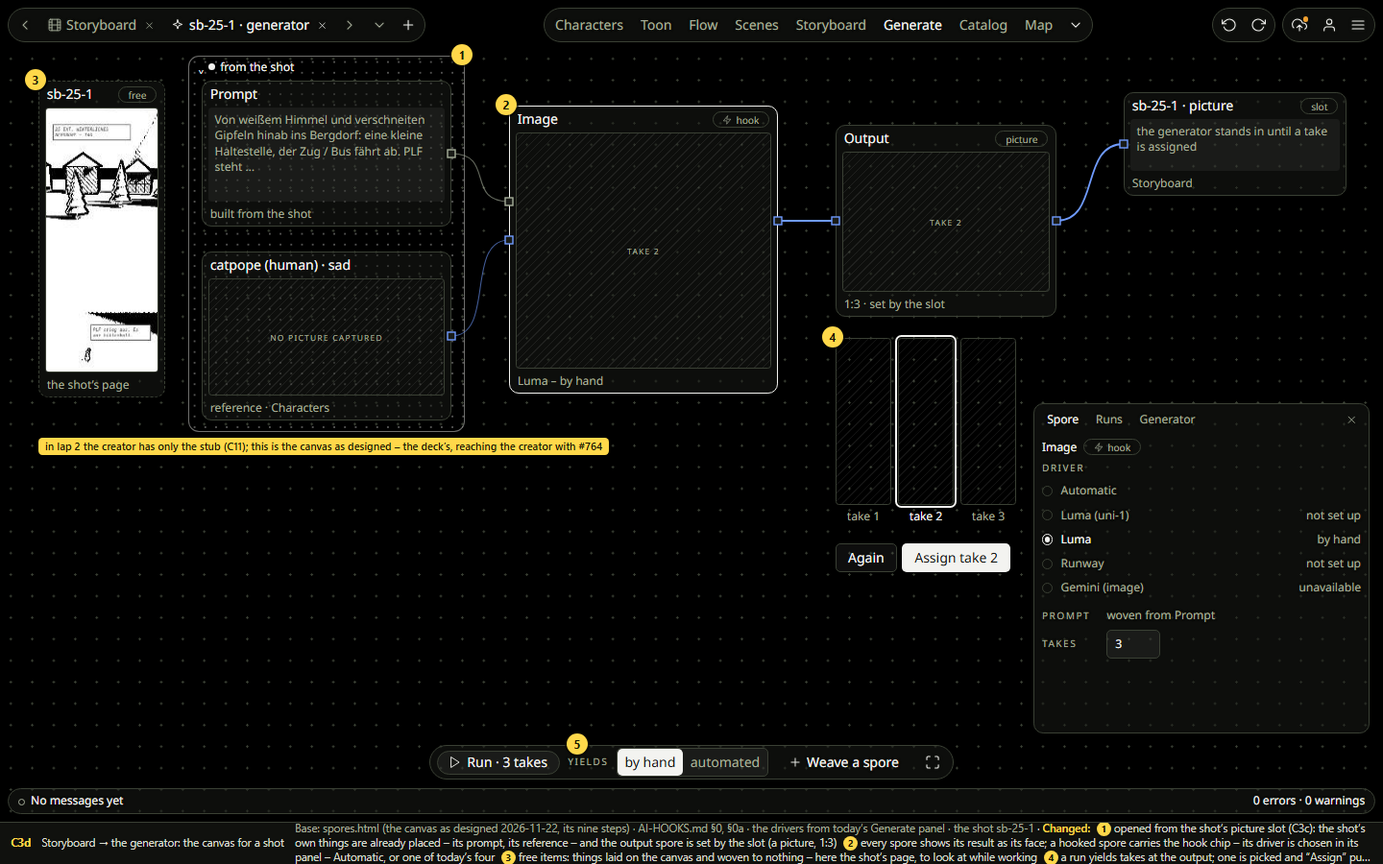
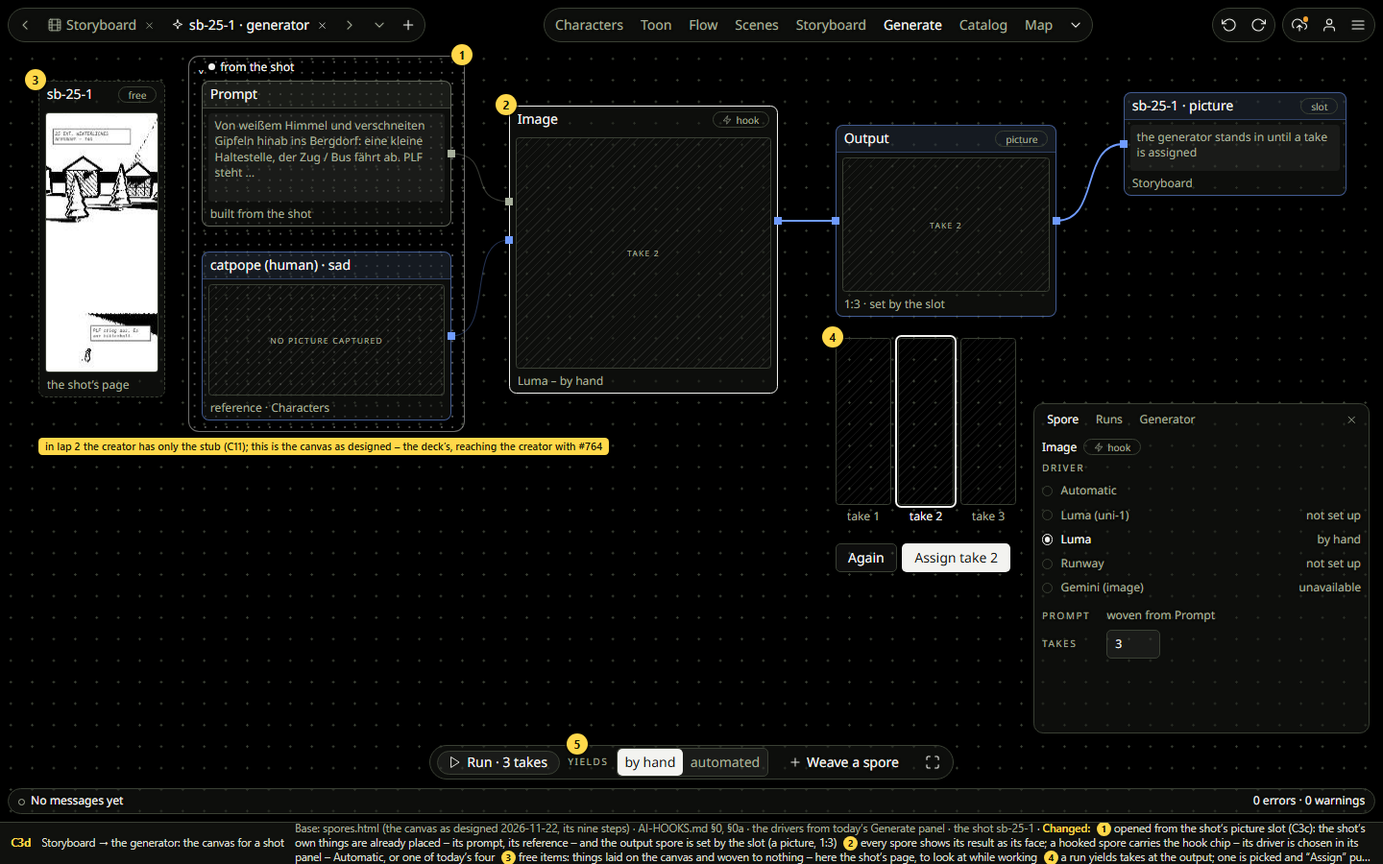
Lap 2 kit: the spore rows corrected after the deck's check against the node view (outline in the signal's colour, solid pins, the cable's states, the ground as the deck draws it). Refs #626

diff --git a/agents/research/redesign/lap2/kit-d.html b/agents/research/redesign/lap2/kit-d.html
@@ -136,6 +136,19 @@ section.part{padding:1.3rem 0 1.5rem;border-top:1px solid var(--tool-line)}
 .ksg .gh i{width:.5rem;height:.5rem;border-radius:50%;background:currentColor}
 .ksg.h{border-color:var(--gc,var(--tool-text))}
 .ksg.fold{height:1.5rem;background-image:none}
+/* corrected after the deck's check (2026-11-24): a spore's outline is the colour of the signal it gives (55 %; a far one 35 %), its head is tinted 9 % toward it over a hairline; pins are solid; the plain canvas has no dots */
+.ks{border-color:color-mix(in srgb,var(--sc,var(--tool-muted)) 55%,transparent);border-radius:.54rem}
+.ks .t{height:2rem;background:color-mix(in srgb,var(--sc,var(--tool-muted)) 9%,transparent);border-bottom:1px solid color-mix(in srgb,var(--sc,var(--tool-muted)) 30%,transparent)}
+.ks .t .kw{margin-left:auto;color:var(--tool-muted);font-size:.6rem;letter-spacing:.12em;text-transform:uppercase}
+.ks.h{border-color:var(--sc,var(--tool-muted))}
+.ks.on{border-color:var(--d-on);background:var(--tool-selected)}
+.ks.fl{box-shadow:0 0 0 3px color-mix(in srgb,var(--sc,var(--tool-muted)) 45%,transparent)}
+.ks.far{border-color:color-mix(in srgb,var(--sc,var(--tool-muted)) 35%,transparent)}
+.ks.free{border-style:dashed;border-color:var(--tool-line);background:none} .ks.free .t{background:none;border-bottom:0}
+.ks .pn{display:flex;align-items:center;gap:.3rem;height:1.25rem;padding:0 .5rem 0 0;margin-left:-.5rem;color:var(--tool-muted);font-size:.68rem}
+.ks .pn.o{flex-direction:row-reverse;padding:0 0 0 .5rem;margin:0 -.5rem 0 0}
+.ks.pins{overflow:visible}
+.ks-ground.plain{background-image:none}
 .ks-dots{display:block;width:100%;height:3.2rem;border-radius:.4rem;background-image:radial-gradient(circle,var(--tool-line) 1px,transparent 1.2px);background-size:1rem 1rem}
 .ks{display:inline-flex;flex-direction:column;width:100%;max-width:9rem;border:var(--editor-edge) solid var(--tool-line);border-radius:.45rem;background:var(--tool-control);font-size:.78rem;text-shadow:none;overflow:hidden}
 .ks .t{display:flex;align-items:center;gap:.3rem;height:1.55rem;padding:0 .5rem;white-space:nowrap}
@@ -288,7 +301,7 @@ html:is([data-p15="b"],[data-p15="c"]) .fld.err::after{content:'✕';margin-left
 :root,[data-theme]{--cb-ok:#56B4E9;--cb-warn:#F0E442;--cb-err:#D55E00}
 [data-theme="day"]{--cb-ok:#0072B2;--cb-warn:#B07800;--cb-err:#8F3300}
 /* what keeps its colour (RULES H11, 2026-11-24): signals – the deck's table, deck/kit/src/base/signal.rs – and outlet types – started in the #703 draft's lanes (research/scenes/scenes-drafts.html), to tune */
-:root{--sig-event:#f3f3f0;--sig-control:#46d36a;--sig-clock:#e5484d;--sig-audio:#19b8d8;--sig-picture:#6f9bff;--sig-address:#b46bff;--sig-vote:#ffb020;--sig-scene:#ff6b8a;--sig-far:#a7af9b;
+:root{--sig-asset:var(--tool-muted);--sig-event:#f3f3f0;--sig-control:#46d36a;--sig-clock:#e5484d;--sig-audio:#19b8d8;--sig-picture:#6f9bff;--sig-address:#b46bff;--sig-vote:#ffb020;--sig-scene:#ff6b8a;--sig-far:#a7af9b;
   --out-page:#7cc4ff;--out-stage:#ffb86b;--out-target:#b99cff;--out-light:#f2df6f}
 [data-theme="day"]{--sig-event:#22271e;--sig-control:#2f9e4a;--sig-clock:#c23238;--sig-audio:#0089a8;--sig-picture:#3a63c9;--sig-address:#8a4fd0;--sig-vote:#b07800;--sig-scene:#c8385a;--sig-far:#6b7461;
   --out-page:#2a7fc0;--out-stage:#c46a12;--out-target:#7448d6;--out-light:#a88a00}
@@ -603,18 +616,20 @@ const ibtn = (cls, n = 'eye') => `<span class="kib ${cls}">${ic(n)}</span>`;
 const ingroup = cls => `<span class="kp"><span class="kib">${ic('pointer')}</span><span class="kib ${cls}">${ic('undo')}</span><span class="kib">${ic('redo')}</span></span>`;
 const btn = (v, cls, w) => `<span class="kb ${v} ${cls}">${w}</span>`;
 const kgroup = (cls, col) => `<span class="ksg ${cls}" ${col ? `style="--gc:${col}"` : ''}><span class="gh">${cls === 'fold' ? '›' : '⌄'}<i></i>from the shot</span></span>`;
-const ksp = (cls, o = {}) => `<span class="ks ${cls}"><span class="t">${o.t || 'image'}${o.hook ? `<span class="kc">${ic('zap')}hook</span>` : ''}${o.mark ? `<span class="m ${o.mark}">${o.mark === 'done' ? '✓' : o.mark === 'fail' ? '✕' : ''}</span>` : ''}</span>${o.face ? `<span class="fc">${o.face}</span>` : ''}<span class="s">${o.s || 'Luma – by hand'}</span></span>`;
-/* a plug – a port's pin: its shape and colour are its signal's (deck-kit base/signal.rs); st: open · hover · wired · off · may (a cable in the hand may go in) */
-const kpin = (k, st) => { const c = `var(--sig-${k})`, fill = st === 'wired' ? c : 'var(--tool-popover)', sw = st === 'hover' || st === 'may' ? 2 : 1.3;
-  const sh = k === 'event' ? `<path d="M4.5 3.5L13 8L4.5 12.5Z" fill="${fill}" stroke="${c}" stroke-width="${sw}" stroke-linejoin="round"/>` : k === 'control' ? `<circle cx="8" cy="8" r="3.4" fill="${fill}" stroke="${c}" stroke-width="${sw}"/>` : k === 'picture' ? `<rect x="4" y="4" width="8" height="8" fill="${fill}" stroke="${c}" stroke-width="${sw}"/>` : k === 'address' ? `<path d="M8 2.6L13.4 8L8 13.4L2.6 8Z" fill="${fill}" stroke="${c}" stroke-width="${sw}"/>` : `<circle cx="8" cy="8" r="4.3" fill="var(--tool-popover)" stroke="${c}" stroke-width="${sw + .2}"/>`;
+/* a plug – a port's pin: its shape and colour are its signal's, always solid (deck-kit base/signal.rs, show/node_card.rs); st: wired · hover · off · may (a cable in the hand may go in) */
+const kpin = (k, st) => { const c = `var(--sig-${k})`, fill = c, sw = st === 'hover' || st === 'may' ? 2 : 1.3;
+  const sh = k === 'event' ? `<path d="M4.5 3.5L13 8L4.5 12.5Z" fill="${fill}" stroke="${c}" stroke-width="${sw}" stroke-linejoin="round"/>` : k === 'control' ? `<circle cx="8" cy="8" r="3.4" fill="${fill}" stroke="${c}" stroke-width="${sw}"/>` : k === 'picture' || k === 'asset' ? `<rect x="4" y="4" width="8" height="8" fill="${fill}" stroke="${c}" stroke-width="${sw}"/>` : k === 'address' ? `<path d="M8 2.6L13.4 8L8 13.4L2.6 8Z" fill="${fill}" stroke="${c}" stroke-width="${sw}"/>` : `<circle cx="8" cy="8" r="4.3" fill="var(--tool-popover)" stroke="${c}" stroke-width="${sw + .2}"/>`;
   return `<svg viewBox="0 0 16 16" style="width:1rem;height:1rem;flex:none;opacity:${st === 'off' ? .4 : 1}"><title>${k}</title>${st === 'may' ? `<circle cx="8" cy="8" r="7.3" fill="none" stroke="${c}" stroke-width="1" opacity=".5"/>` : ''}${sh}</svg>`; };
 const kpins = (st) => `<span style="display:inline-flex;gap:.3rem">${['event', 'control', 'picture', 'address', 'far'].map(k => kpin(k, st)).join('')}</span>`;
 /* a pore – for organic matter, a whole being (owner 2026-11-22); its shape is a proposal: a round opening, wider than a plug */
 const kpore = (wired) => `<svg viewBox="0 0 22 22" style="width:1.4rem;height:1.4rem"><circle cx="11" cy="11" r="8.5" fill="none" stroke="var(--tool-text)" stroke-width="1.2" opacity=".55"/><circle cx="11" cy="11" r="5" fill="${wired ? 'var(--tool-text)' : 'var(--tool-popover)'}" stroke="var(--tool-text)" stroke-width="1.3"/></svg>`;
 /* a cable – hangs under its ends, deeper the farther apart (deck-kit base/wire.rs); st: rest · hover · lit (beads run) · hand (in the hand, dashed) · no (refused) */
-const kcab = (st) => { const c = st === 'no' ? 'var(--d-error)' : 'var(--sig-picture)', d = st === 'hand' ? 'M8 7 C 30 24, 70 26, 92 18' : 'M8 7 C 34 25, 86 25, 112 7';
-  return `<svg viewBox="0 0 120 30" style="width:7.5rem;height:1.9rem"><path d="${d}" fill="none" stroke="${c}" stroke-width="${st === 'rest' ? 1.1 : 1.9}" opacity="${st === 'rest' ? .6 : 1}" ${st === 'hand' || st === 'no' ? 'stroke-dasharray="4 3"' : ''}/>${st === 'lit' ? [[30, 17.5], [60, 20.5], [90, 17.5]].map(([x, y]) => `<circle cx="${x}" cy="${y}" r="1.7" fill="${c}"/>`).join('') : ''}
-    <rect x="4" y="3" width="8" height="8" fill="${st === 'rest' ? 'var(--tool-popover)' : c}" stroke="${c}" stroke-width="1.4"/>${st === 'hand' || st === 'no' ? `<path d="M92 13l8 9-4 .4 2 4-2 1-2-4-3 2.6z" fill="var(--tool-text)"/>` : `<rect x="108" y="3" width="8" height="8" fill="${st === 'rest' ? 'var(--tool-popover)' : c}" stroke="${c}" stroke-width="1.4"/>`}</svg>`; };
+/* a spore's card as the deck draws it (show/node_card.rs): o.sig = the signal it gives; o.form: 'pins' (its pins on the edge with their names), 'head' (collapsed) */
+const ksp = (cls, o = {}) => { const sig = o.sig === undefined ? 'picture' : o.sig;
+  return `<span class="ks ${cls} ${o.form === 'pins' ? 'pins' : ''}" ${sig ? `style="--sc:var(--sig-${sig})"` : ''}><span class="t">${o.t || 'image'}${o.hook ? `<span class="kc">${ic('zap')}hook</span>` : ''}${o.kind ? `<span class="kw">${o.kind}</span>` : ''}${o.mark ? `<span class="m ${o.mark}">${o.mark === 'done' ? '✓' : o.mark === 'fail' ? '✕' : ''}</span>` : ''}</span>${o.form === 'head' ? '' : `${o.face ? `<span class="fc">${o.face}</span>` : ''}${o.form === 'pins' ? `<span class="pn">${kpin('asset', 'wired')}prompt</span><span class="pn o">${kpin('picture', 'wired')}picture</span>` : `<span class="s">${o.s || 'Luma – by hand'}</span>`}`}</span>`; };
+const kcab = (st) => { const c = st === 'no' ? 'var(--d-error)' : 'var(--sig-picture)', d = st === 'hand' || st === 'no' ? 'M8 7 C 30 24, 70 26, 92 18' : 'M8 7 C 34 25, 86 25, 112 7', quiet = st === 'rest';
+  return `<svg viewBox="0 0 120 30" style="width:7.5rem;height:1.9rem">${st === 'hover' ? `<path d="${d}" fill="none" stroke="${c}" stroke-width="7" opacity=".18" stroke-linecap="round"/>` : ''}<path d="${d}" fill="none" stroke="${c}" stroke-width="${quiet ? 1.1 : 1.8}" opacity="${quiet ? .32 : 1}" ${st === 'hand' || st === 'no' ? 'stroke-dasharray="4 3"' : ''}/>${st === 'lit' ? [[30, 17.5], [60, 20.5], [90, 17.5]].map(([x, y]) => `<circle cx="${x}" cy="${y}" r="1.8" fill="${c}"/>`).join('') : ''}${st === 'pulse' ? `<circle cx="60" cy="20.5" r="5.5" fill="${c}" opacity=".25"/><circle cx="60" cy="20.5" r="2.4" fill="${c}"/>` : ''}
+    <rect x="4" y="3" width="8" height="8" fill="${c}"/>${st === 'hand' || st === 'no' ? `<path d="M92 13l8 9-4 .4 2 4-2 1-2-4-3 2.6z" fill="var(--tool-text)"/>` : `<rect x="108" y="3" width="8" height="8" fill="${c}"/>`}</svg>`; };
 const kcable = (lit) => `<svg viewBox="0 0 120 26" style="width:7.5rem;height:1.6rem"><path d="M8 19 C 48 19, 72 7, 112 7" fill="none" stroke="var(--sig-picture)" stroke-width="${lit ? 1.9 : 1.1}" opacity="${lit ? 1 : .6}"/><rect x="2" y="15" width="8" height="8" fill="var(--tool-popover)" stroke="var(--sig-picture)" stroke-width="1.4"/><rect x="110" y="3" width="8" height="8" fill="${lit ? 'var(--sig-picture)' : 'var(--tool-popover)'}" stroke="var(--sig-picture)" stroke-width="1.4"/></svg>`;
 const ktake = (cls) => `<span class="kst ${cls}"><i></i>take 2</span>`;
 const chip = (cls, w = 'Voice') => `<span class="kc ${cls}">${w}</span>`;
@@ -674,14 +689,15 @@ const rows = () => [
     `${stb('ok', 'Saved · giantpopstar')}${stb('warn', 'Fireface not found', '0 errors · <span class="c-warn">1 warning</span>')}${stb('err', 'Publish failed', '<span class="c-err">1 error</span> · <span class="c-warn">7 warnings</span>')}`]),
   comp('Signals', capt('keep their colour · H11'), [`<span style="display:flex;flex-wrap:wrap;width:44rem">${[['event','M2 1.5L11 6L2 10.5Z'],['control','dot'],['clock','dot'],['audio','M2 2h8v8H2Z'],['picture','M2 2h8v8H2Z'],['address','M6 1L11 6L6 11L1 6Z'],['vote','dot'],['scene','M2 2h8v8H2Z'],['far','ring']].map(([k, d]) => `<span class="cc"><svg viewBox="0 0 12 12">${d === 'dot' ? `<circle cx="6" cy="6" r="3.6" fill="var(--sig-${k})"/>` : d === 'ring' ? `<circle cx="6" cy="6" r="4" fill="none" stroke="var(--sig-${k})" stroke-width="1.6"/>` : `<path d="${d}" fill="var(--sig-${k})"/>`}</svg>${k}</span>`).join('')}</span>`, NA, NA, NA, NA, NA, capt('ports, pins and cables – the deck’s table; the shape tells the kind too')]),
   comp('Outlet types', capt('get colours · to tune'), [`<span style="display:flex;flex-wrap:wrap;width:44rem">${[['page', 'the reader’s page'], ['stage', 'a deck’s screen or speaker'], ['target', 'an XR scene'], ['light', 'a device: DMX …']].map(([k, w]) => `<span class="cc"><i style="background:var(--out-${k})"></i>${k}<span class="cap" style="margin-left:.2rem">${w}</span></span>`).join('')}</span>`, NA, NA, NA, NA, NA, capt('decided 2026-11-24; these four are the start from the #703 draft – the list and the values are open')]),
-  comp('Spores view', capt('its ground'), [`<span class="ks-ground"></span>`, `<span class="ks-ground rev"></span>`, NA, NA, NA, NA, capt('the stage with a dotted ground; under what the pointer is on, the dots come up in its colour and fade – no blur. Open: the deck shows dots only there and inside groups today; the drafts show them everywhere')]),
-  comp('Group', capt('a frame'), [kgroup(''), kgroup('h'), kgroup('', '#e6d24a'), NA, NA, kgroup('fold'), capt('round its spores, one step out: its dots and its edge in its colour (third: a colour of its own); its head – fold, swatch (the next colour), name, renamed in place; folded it is its head only')]),
-  comp('Spore', capt('a card'), [ksp(''), ksp('h'), ksp('on'), ksp('f'), ksp('x'), ksp('free', { t: 'sb-25-1', s: 'a free item' }), capt('rest · hover · selected · focus · off · a free item: dashed, woven to nothing')]),
-  comp('Spore · face', capt('its result'), [ksp('', { face: 'pending', hook: 1 }), NA, ksp('on', { face: 'take 2', hook: 1 }), NA, NA, NA, capt('a spore shows its result as its face; a hooked one carries the hook chip; its driver: Automatic or picked')]),
-  comp('Spore · run', capt('its marks'), [ksp('', { mark: 'wait' }), ksp('', { mark: 'run' }), ksp('', { mark: 'done' }), ksp('', { mark: 'fail' }), NA, NA, capt('waiting · running · done · failed – ok and error keep their hue')]),
-  comp('Plug', capt('a port’s pin'), [kpins('open'), kpins('hover'), kpins('wired'), NA, kpins('off'), kpins('may'), capt('its shape and colour are its signal’s: event · value · picture · address · far (all nine above). Open · hover · wired · off · while a cable is in the hand, the plugs it may go into light')]),
+  comp('Spores view', capt('its ground'), [`<span class="ks-ground plain"></span>`, `<span class="ks-ground plain rev"></span>`, NA, NA, NA, `<span class="ks-ground"></span>`, capt('today (deck): the plain stage; under what the pointer is on, a patch of dots comes up and follows it – no blur. Last cell: dots across the whole canvas, as the drafts have them – open which')]),
+  comp('Group', capt('a frame'), [kgroup(''), kgroup('h'), kgroup('', '#e6d24a'), NA, NA, kgroup('fold'), capt('round its spores, one step out: its dots (32 %) and its edge (45 %) in its colour, on a 1 rem grid (third: a colour of its own); its head – fold, swatch (the next colour), name, renamed in place; folded it is its head only')]),
+  comp('Spore', capt('a card'), [ksp(''), ksp('h'), ksp('on'), ksp('fl'), ksp('x'), ksp('free', { t: 'sb-25-1', s: 'a free item', sig: null }), capt('its outline is the colour of the signal it gives, its head tinted toward it. Rest · hover (new in the deck) · selected: the text colour (the deck’s cyan ring goes) · focus: a flash, a ring closing in · off · a free item')]),
+  comp('Spore · forms', capt('as the deck'), [ksp('', { form: 'pins', kind: 'hook' }), ksp('', { form: 'head' }), ksp('far', { s: 'from far' }), NA, NA, NA, capt('with its pins on the edge, their names beside them · collapsed to its head · from far: a fainter outline')]),
+  comp('Spore · face', capt('its result'), [ksp('', { face: 'pending', hook: 1 }), NA, ksp('on', { face: 'take 2', hook: 1 }), NA, NA, NA, capt('a spore shows its result as its face (the deck’s card has a preview picture today); a hooked one carries the hook chip; its driver: Automatic or picked')]),
+  comp('Spore · run', capt('its marks'), [ksp('', { mark: 'wait' }), ksp('', { mark: 'run' }), ksp('', { mark: 'done' }), ksp('', { mark: 'fail' }), NA, NA, capt('waiting · running · done · failed – new: the deck knows a cable’s activity today, not a spore’s run; comes with the generators')]),
+  comp('Plug', capt('a port’s pin'), [kpins('wired'), kpins('hover'), NA, NA, kpins('off'), kpins('may'), capt('always solid, in its signal’s shape and colour – wired or not looks the same (deck): event · value · picture · address · far (all nine above). Hover · off · while a cable is in the hand, the plugs it may go into light')]),
   comp('Pore', capt('organic matter'), [kpore(false), NA, kpore(true), NA, NA, NA, capt('where a whole being passes – combined, complex data; a picture or a file is data and goes through a plug (decided 2026-11-22). The shape is a proposal: a round opening, wider than a plug')]),
-  comp('Cable', capt('by signal'), [kcab('rest'), kcab('hover'), kcab('lit'), NA, kcab('no'), kcab('hand'), capt('hangs under its ends, deeper the farther apart; quiet at rest; a few slow beads run when its signal passes; in the hand it is dashed; refused, it says why at the pointer. A press on an outlet starts one; a wired inlet dragged lifts it')]),
+  comp('Cable', capt('by signal'), [kcab('rest'), kcab('hover'), kcab('lit'), kcab('pulse'), kcab('no'), kcab('hand'), capt('hangs under its ends; quiet at rest (faint, thin) · hover: a wide halo · lit as a stream of slow beads, or as one pulse with a halo · refused: it says why at the pointer · in the hand: dashed. An event’s cable is heavier; a cable can carry its value as a tag')]),
   comp('Take', capt('pick one'), [ktake(''), ktake('h'), ktake('on'), NA, NA, NA, capt('a run’s takes at the output; the picked one has the ring – “Assign” puts it into the slot')]),
   comp('Deck stage', capt('live · out · cables') + od(14), [STAGE14, NA, NA, NA, NA, NA, capt('not a UI state – proposal')]),
 ];

diff --git a/agents/research/redesign/lap2/draft-screens.js b/agents/research/redesign/lap2/draft-screens.js
@@ -316,12 +316,12 @@ add('C', 'C3c', 'Storyboard · 5 Generate: the shot’s asset slot', 'today’s 
 /* C3d – the generator's canvas for a shot, as designed on 2026-11-22 (research/redesign/spores.html, AI-HOOKS.md §0 and §0a): every spore shows its result as its face, free items lie on the canvas unwoven, a run yields takes at the output and one is picked for the slot. Drawn on the kit; the drivers are today's Generate panel's. No generated picture exists, so the takes are the "still pending" tile. */
 const gcPend = (label) => `<span style="position:absolute;inset:0;display:grid;place-items:center;background:repeating-linear-gradient(135deg,transparent 0 5px,color-mix(in srgb,var(--tool-text) 8%,transparent) 5px 6px)" title="no picture exists yet – still pending"><span class="label" style="font-size:.6rem">${label || ''}</span></span>`;
 /* a spore's card: its name, a chip, its face (the result), a line under it; lit = the one that is selected */
-const gcCard = (x, y, w, h, o) => `<div class="abs" style="left:${x}px;top:${y}px;width:${w}px;height:${h}px;border:1px ${o.free ? 'dashed' : 'solid'} var(--tool-${o.lit ? 'text' : 'line'});border-radius:var(--kit-radius-box);background:var(--tool-panel);display:flex;flex-direction:column;overflow:hidden" title="${o.title || ''}">
-    <div style="flex:none;display:flex;align-items:center;gap:.4rem;padding:.3rem .55rem;white-space:nowrap"><span style="overflow:hidden;text-overflow:ellipsis">${o.t}</span><span style="flex:1"></span>${o.chip ? `<span class="kc">${o.chip}</span>` : ''}</div>
+const gcCard = (x, y, w, h, o) => `<div class="abs" style="left:${x}px;top:${y}px;width:${w}px;height:${h}px;border:1px ${o.free ? 'dashed' : 'solid'} ${o.lit ? 'var(--tool-text)' : o.sig ? `color-mix(in srgb,var(--sig-${o.sig}) 55%,transparent)` : 'var(--tool-line)'};border-radius:.54rem;background:var(--tool-panel);display:flex;flex-direction:column;overflow:hidden" title="${o.title || ''}">
+    <div style="flex:none;display:flex;align-items:center;gap:.4rem;padding:.3rem .55rem;margin-bottom:.35rem;white-space:nowrap;${o.sig ? `background:color-mix(in srgb,var(--sig-${o.sig}) 9%,transparent);border-bottom:1px solid color-mix(in srgb,var(--sig-${o.sig}) 30%,transparent)` : ''}"><span style="overflow:hidden;text-overflow:ellipsis">${o.t}</span><span style="flex:1"></span>${o.chip ? `<span class="kc">${o.chip}</span>` : ''}</div>
     <div style="flex:1;position:relative;margin:0 .45rem;border-radius:.25rem;overflow:hidden;${o.text ? 'padding:.35rem .45rem;font-size:var(--editor-small);line-height:1.35;color:var(--tool-muted);background:var(--tool-control)' : 'border:1px solid var(--tool-line)'}">${o.face || ''}</div>
     <div class="cap" style="flex:none;padding:.3rem .55rem;white-space:nowrap;overflow:hidden;text-overflow:ellipsis">${o.s || '&nbsp;'}</div></div>`;
-const gcPort = (x, y, kind) => `<rect x="${x - 4}" y="${y - 4}" width="8" height="8" fill="var(--tool-popover)" stroke="var(--sig-${kind})" stroke-width="1.4"/>`;
-const gcWire = (x1, y1, x2, y2, kind, lit) => `<path d="M${x1} ${y1} C ${x1 + 46} ${y1}, ${x2 - 46} ${y2}, ${x2} ${y2}" fill="none" stroke="var(--sig-${kind})" stroke-width="${lit ? 1.8 : 1.1}" opacity="${lit ? 1 : .6}"/>`;
+const gcPort = (x, y, kind) => `<rect x="${x - 4}" y="${y - 4}" width="8" height="8" fill="var(--sig-${kind})"/>`;   /* a pin is solid in its signal's colour (deck) */
+const gcWire = (x1, y1, x2, y2, kind, lit) => `<path d="M${x1} ${y1} C ${x1 + 46} ${y1}, ${x2 - 46} ${y2}, ${x2} ${y2}" fill="none" stroke="var(--sig-${kind})" stroke-width="${lit ? 1.8 : 1.1}" opacity="${lit ? 1 : .32}"/>`;
 add('C', 'C3d', 'Storyboard → the generator: the canvas for a shot', 'spores.html (the canvas as designed 2026-11-22, its nine steps) · AI-HOOKS.md §0, §0a · the drivers from today’s Generate panel · the shot sb-25-1',
   ['opened from the shot’s picture slot (C3c): the shot’s own things are already placed – its prompt, its reference – and the output spore is set by the slot (a picture, 1:3)',
    'every spore shows its result as its face; a hooked spore carries the hook chip – its driver is chosen in its panel – Automatic, or one of today’s four',
@@ -336,11 +336,11 @@ add('C', 'C3d', 'Storyboard → the generator: the canvas for a shot', 'spores.h
     ${gcPort(470, 160, 'asset')}${gcPort(470, 350, 'picture')}${gcPort(530, 210, 'asset')}${gcPort(530, 250, 'picture')}${gcPort(810, 230, 'picture')}${gcPort(870, 230, 'picture')}${gcPort(1100, 230, 'picture')}${gcPort(1170, 150, 'picture')}</svg>
   <div class="abs" style="left:196px;top:58px;width:288px;height:392px;border:1px solid color-mix(in srgb,var(--tool-text) 45%,transparent);border-radius:.8rem;background-image:radial-gradient(circle,color-mix(in srgb,var(--tool-text) 34%,transparent) 1px,transparent 1.2px);background-size:.8rem .8rem" title="a group: round its spores, its dots and edge in its colour"><span style="position:absolute;left:.6rem;top:.2rem;display:flex;align-items:center;gap:.35rem;font-size:var(--editor-small)">⌄<span style="width:.5rem;height:.5rem;border-radius:50%;background:var(--tool-text)"></span>from the shot</span></div>
   ${gcCard(40, 84, 132, 330, { t: 'sb-25-1', chip: 'free', free: 1, face: capPic(`now/ws-storyboard-${WS_TH}.jpg`, 800, 476, 342, 100, 116, 256), s: 'the shot’s page', title: 'a free item: on the canvas, woven to nothing' })}
-  ${gcCard(210, 84, 260, 152, { t: 'Prompt', text: 1, face: 'Von weißem Himmel und verschneiten Gipfeln hinab ins Bergdorf: eine kleine Haltestelle, der Zug / Bus fährt ab. PLF steht …', s: 'built from the shot' })}
-  ${gcCard(210, 262, 260, 176, { t: 'catpope (human) · sad', face: gcPend('no picture captured'), s: 'reference · Characters' })}
+  ${gcCard(210, 84, 260, 152, { t: 'Prompt', sig: 'asset', text: 1, face: 'Von weißem Himmel und verschneiten Gipfeln hinab ins Bergdorf: eine kleine Haltestelle, der Zug / Bus fährt ab. PLF steht …', s: 'built from the shot' })}
+  ${gcCard(210, 262, 260, 176, { t: 'catpope (human) · sad', sig: 'picture', face: gcPend('no picture captured'), s: 'reference · Characters' })}
   ${gcCard(530, 110, 280, 300, { t: 'Image', chip: ic('zap') + 'hook', lit: 1, face: gcPend('take 2'), s: 'Luma – by hand', title: 'a hooked spore: an external tool makes the picture' })}
-  ${gcCard(870, 130, 230, 200, { t: 'Output', chip: 'picture', face: gcPend('take 2'), s: '1:3 · set by the slot' })}
-  ${gcCard(1170, 96, 232, 108, { t: 'sb-25-1 · picture', chip: 'slot', text: 1, face: 'the generator stands in until a take is assigned', s: 'Storyboard' })}
+  ${gcCard(870, 130, 230, 200, { t: 'Output', sig: 'picture', chip: 'picture', face: gcPend('take 2'), s: '1:3 · set by the slot' })}
+  ${gcCard(1170, 96, 232, 108, { t: 'sb-25-1 · picture', sig: 'picture', chip: 'slot', text: 1, face: 'the generator stands in until a take is assigned', s: 'Storyboard' })}
   <div class="abs" style="left:870px;top:352px;display:flex;gap:.5rem">${[1, 2, 3].map(n => `<span style="display:flex;flex-direction:column;gap:.25rem"><span style="position:relative;width:58px;height:174px;border-radius:.25rem;overflow:hidden;border:1px solid var(--tool-line);${n === 2 ? 'outline:2px solid var(--tool-text);outline-offset:1px' : ''}">${gcPend('')}</span><span class="cap" style="text-align:center;${n === 2 ? 'color:var(--tool-text)' : ''}">take ${n}</span></span>`).join('')}
 </div>
   <div class="abs" style="left:870px;top:566px;display:flex;gap:.4rem"><span class="kb plain">Again</span><span class="kb primary">Assign take 2</span></div>

diff --git a/agents/research/redesign/lap2/NOTES.md b/agents/research/redesign/lap2/NOTES.md
@@ -139,3 +139,4 @@ Later, after these: the scene page + open in the deck; Catalog + Library; the on
 - **Parked – a spore's drivers** (owner, 2026-11-24: *"And those drivers can be APIs which list models, or can be models hosted. Perhaps we will do a design session for this later. Please ignore it for now."*) – not designed, not in the plan; the drafts show a flat list (Automatic and today's four choices) only. For a later design session.
 - **Groups and the Spores view's ground were missing from the kit rows** (owner: *"Groups and the spore view background is missing in your kit additions."*) – added to kit-d.html: "Spores view" (its dotted ground; the dots coming up under the pointer) and "Group" (rest, hover, a colour of its own, folded). From the deck (show/node_paint.rs): a latent grid revealed under what the pointer is on, in its colour, fading, no blur; a group's ground is its grid's dots in its colour with an edge at 45 %; its head is fold, swatch (the next colour) and name, renamed in place. Open, on the sheet: the deck shows dots only under the pointer and inside groups, the drafts show them everywhere. C3d has a group round the shot's two sources now.
 - **Cables, plugs and pores were missing too** (owner: *"Cables and plug and pore types are also missing."*) – added to kit-d.html: "Plug" (five of the nine shapes in the states open · hover · wired · off · may take a cable in the hand), "Pore" (open, wired – a proposal for its shape; pores are not in any code), "Cable" (rest · hover · lit with beads · refused · in the hand). From the deck: a cable is a curve that sags under its ends with a few slow beads in its own colour (deck-kit base/wire.rs); weaving is a drag from an outlet to an inlet, a wired inlet dragged lifts its cable, the inlets it may go into light, a refused drop says why at the pointer (show/node_wire.rs); a pin's shape and colour are its signal's (base/signal.rs). Open: the pore's shape; the dots everywhere or only under the pointer and in groups.
+- **The deck orchestrator checked the spore rows against the node view** (2026-11-24) – corrected on kit-d.html and C3d. The deck is right: dots only inside a group and as a patch that follows the pointer (not across the canvas); a spore's outline is its kind's colour (the signal it gives) at 55 %, 35 % from far, radius 0.54 rem, a 2 rem head tinted 9 % over a hairline, pins on the edge with names and values, a collapsed form, a preview picture on the card; focus is a flash (a ring closing in); a quiet cable is fainter (32 %), lit is a stream of beads or one pulse with a halo, an event's cable 1.4× heavier, hover a wide halo, a value tag; pins are solid in their signal's shape and colour, wired or not. The sheet stands (the deck changes with P1): selected in the text colour instead of the cyan ring; a hover border. New for the deck (with the generators): off, the free item, the face with the hook chip, a run's marks, takes. Token names differ – the kit file names them once.

diff --git a/agents/research/redesign/lap2/PLAN.md b/agents/research/redesign/lap2/PLAN.md
@@ -21,7 +21,7 @@ The set of SCREENS.md is redrawn in the approved kit with the day's decisions, e
 ### P1 · The kit
 - **Deck (the source):** palette D in deck-kit's tokens – no accent, no lime, no green switch; the see-through grounds; the colour-blind token set; tabs and panel titles without a border at rest; the signal table unchanged; the outlet types' colours as a table beside it.
 - **One shared source of truth for the kit, in a prominent place of the code base** (your word, 2026-11-24): the tokens and each component's states are written once; the deck's UI crate and the creator's UI kit both come from it, checked in deck:ci and the style check so they cannot drift. Today they are kept in step by hand, and the approved kit is only a research page. **Deck: a neutral file, in a top-level `kit/` folder** (`kit/tokens.toml` and a README of the components and their states). It is cheap there: deck-kit already reads a `tokens.toml` on top of its built-in values. The tokens' defaults move out of the Rust code into that file, deck-kit builds it in as its base, and a small script generates the web tools' CSS from it – small. The components' states (a tab's rest, hover, dragged …) become named entries in the same file, done component by component together with the restyle – medium. **Decided 2026-11-24: the `kit/` folder.**
-- **The spores' definitions are in the kit** (decided): the Spores view's ground with its dots, a group, the spore's card and its states, its face, a run's marks, a plug, a pore, a cable, a take – drawn on kit-d.html, written into `kit/` with the rest, used by the deck's node view and the creator's canvas.
+- **The spores' definitions are in the kit** (decided): the Spores view's ground with its dots, a group, the spore's card and its states, its face, a run's marks, a plug, a pore, a cable, a take – drawn on kit-d.html, written into `kit/` with the rest, used by the deck's node view and the creator's canvas. Deck (its check of the sheet against the node view): with the restyle the deck's selected spore loses its cyan ring for the text colour and gains a hover border; a spore's off state, the free item, the face with the hook chip, a run's marks and the takes are new there and come with the generators, not with this package. The token names differ between the two sides; the kit file names each once.
 - **A kit page in each app, built from the real components**, is the reference to look at and refine; kit-d.html moves out of the research folder to that place.
 - **Creator:** the tokens generated from the deck; the kit's components to the new look (tabs, chips and badges, icon buttons, the primary button, focus, selected rows); the colour-blind mode as a setting – in the deck's settings too; the kit page.
 - **Size of the change in the web tools:** the accent is used in 201 places, lime in 36, the green in 23.
